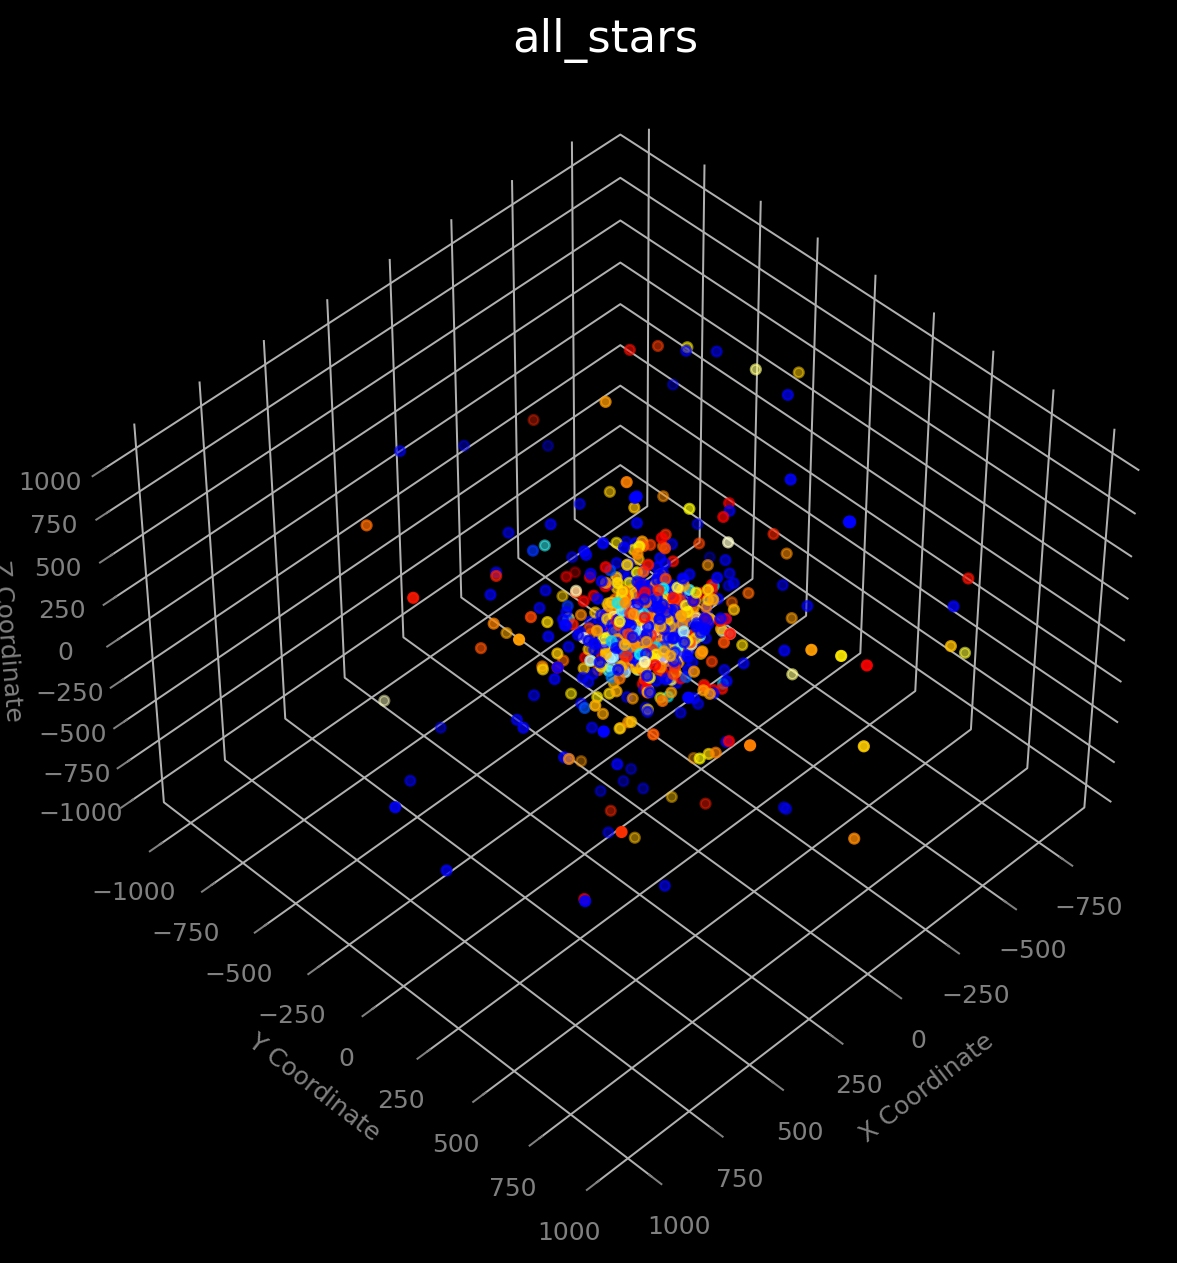
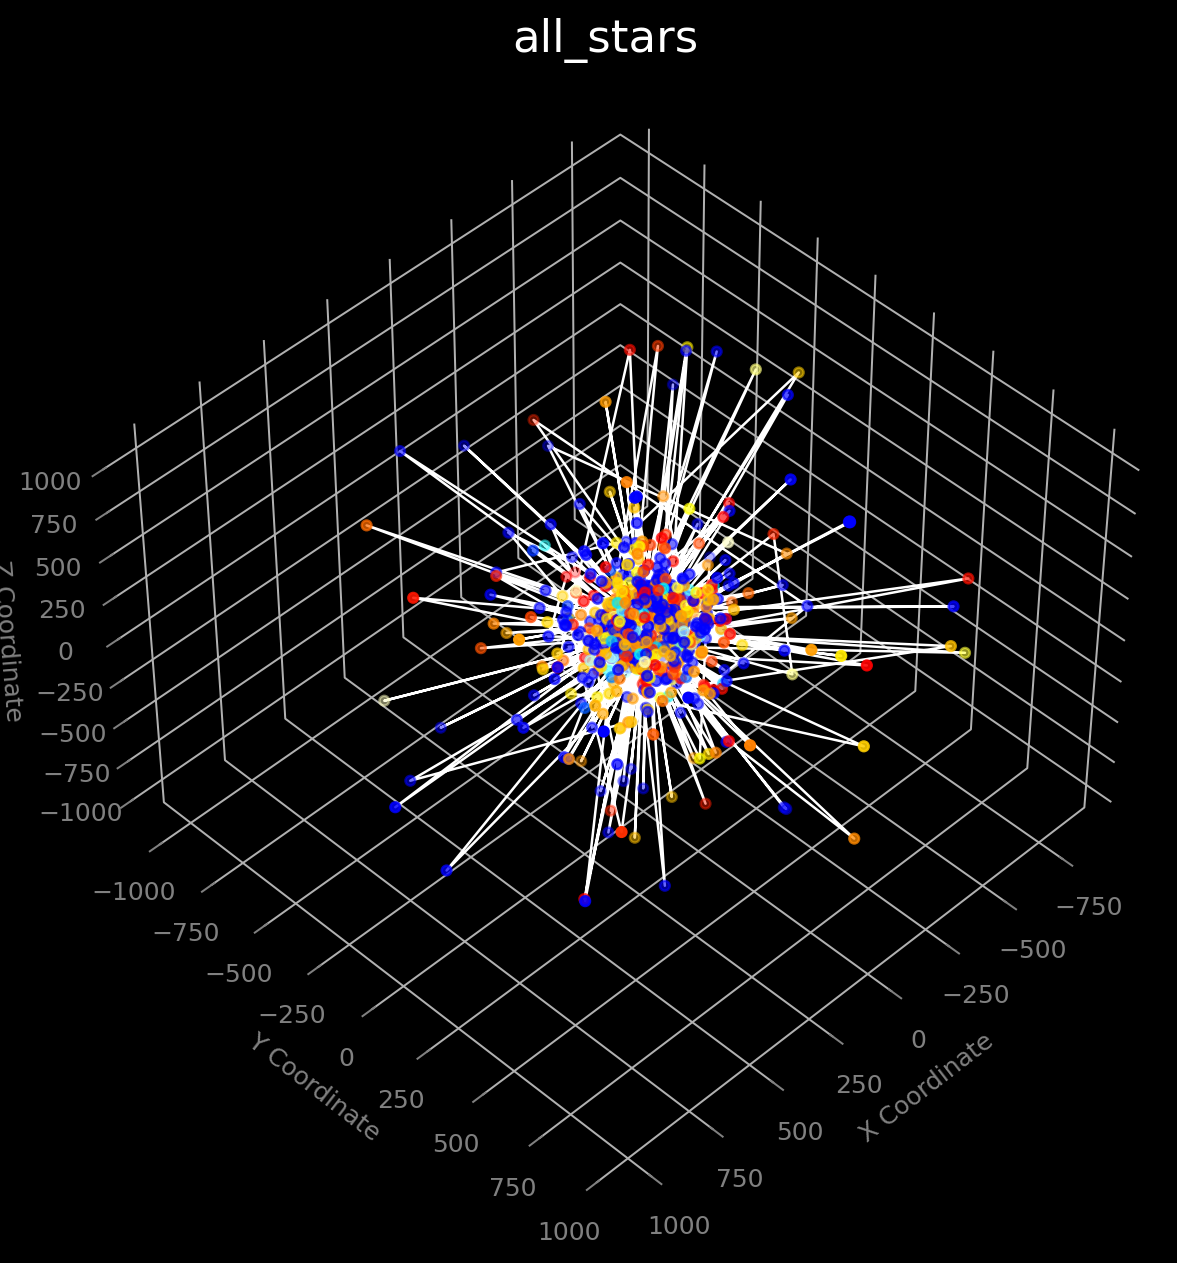
summer triangle

Changed region(s): [[0.367, 0.2779, 0.8258, 0.7102], [0.3976, 0.6485, 0.4282, 0.6793], [0.3364, 0.6176, 0.367, 0.6485]]

diff --git a/src/summer_triangle.py b/src/summer_triangle.py
@@ -1,0 +1,60 @@
+import os
+import pandas as pd
+
+from data_handler import load_data, check_and_convert_types
+from calculations import calculate_distance, calculate_x_coordinate, calculate_y_coordinate, calculate_z_coordinate, bv_color_to_rgb, degrees_to_radians
+from plotter import plot_3d_scatter
+
+def summer_triangle():
+    # current directory
+    current_dir = os.path.dirname('src') 
+
+    # directory of data relative to current directory
+    data_file_path = os.path.join(current_dir, '..', 'data', 'data_j2000.csv')
+
+    # load data from csv to pandas dataframe
+    df = load_data(data_file_path)
+
+    # check if types are correct and convert if otherwise
+    df = check_and_convert_types(df)
+
+    # Summer Triangle stars in Ursa Minor, alternative names and common names respectivly
+    summer_triangle_stars = ['53Alp Aql', '50Alp Cyg', '3Alp Lyr']
+    ordered_star_names = ['Altair', 'Deneb', 'Vega']
+
+    df = df[df['alt_name'].isin(summer_triangle_stars)]
+
+    # map alternative names to common names
+    name_mapping = dict(zip(summer_triangle_stars, ordered_star_names))
+    
+    df['common_name'] = df['alt_name'].map(name_mapping)
+
+    # create order to the stars, this allows for connecting the stars using a line plot in plotter.py
+    df['common_name'] = pd.Categorical(df['common_name'], categories=ordered_star_names, ordered=True)
+    df = df.sort_values(by='common_name')
+
+    # remove any NaN and zero values found in parallax column
+    df = df[(df['parallax'].notna() & df.parallax != 0)]
+
+    # turns degrees to radians (np.sin and np.cos already do this but this will update the df)
+    df['dec'] = df.apply(lambda row: degrees_to_radians(row['dec']), axis=1)
+    df['ra'] = df.apply(lambda row: degrees_to_radians(row['ra']), axis=1)
+
+    # Calculate x, y, z coordinates and RGB colors, and add them to the df
+    df['distance'] = df.apply(lambda row: calculate_distance(row['parallax']), axis=1)
+
+    # create x y z coordinates in the df using distance, declination and right acension
+    df['x_coordinate'] = df.apply(lambda row: calculate_x_coordinate((row['distance']), row['dec'], row['ra']), axis=1)
+    df['y_coordinate'] = df.apply(lambda row: calculate_y_coordinate((row['distance']), row['dec'], row['ra']), axis=1)
+    df['z_coordinate'] = df.apply(lambda row: calculate_z_coordinate((row['distance']), row['dec']), axis=1)
+
+    # creates a color variable to each star (approximatly) 
+    df['rgb_color'] = df['bv_color'].apply(bv_color_to_rgb)
+
+    title = 'summer_triangle'
+    view = (29, -135)
+
+    # plots the Summer Triangle asterism
+    fig, ax, view = plot_3d_scatter(df.x_coordinate.values, df.y_coordinate.values, df.z_coordinate.values, df.rgb_color.values, df.common_name.values, title=title, view=view)
+     
+    return title, fig, ax, view

diff --git a/src/plotter.py b/src/plotter.py
@@ -47,14 +47,20 @@ def plot_3d_scatter(x, y, z, rgb, star_names=None, title=None, view=None):
         for i in range(len(x)):
             ax.text(x[i], y[i], z[i], star_names[i], color='white', fontsize=9)
 
-    # connect stars in a 'closed loop'
-    star_coords = {'x': x, 'y': y, 'z': z}
 
-    # for big dipper
-    draw_line_between_stars(ax, star_names, star_coords, 'Phecda', 'Megrez')
+    if star_names is not None:
+    
+        # connect stars in a 'closed loop'
+        star_coords = {'x': x, 'y': y, 'z': z}
 
-    # for little dipper
-    draw_line_between_stars(ax, star_names, star_coords, 'Eta UMi', 'Zet UMi')
+        # for big dipper
+        draw_line_between_stars(ax, star_names, star_coords, 'Phecda', 'Megrez')
+
+        # for little dipper
+        draw_line_between_stars(ax, star_names, star_coords, 'Eta UMi', 'Zet UMi')
+
+        # for summer triangle
+        draw_line_between_stars(ax, star_names, star_coords, 'Altair', 'Vega')
 
     # draw lines connecting the stars in the Big Dipper
     ax.plot(x, y, z, color='white', linewidth=1)

diff --git a/src/main.py b/src/main.py
@@ -1,21 +1,25 @@
 from big_dipper import big_dipper
 from little_dipper import little_dipper
+from summer_triangle import summer_triangle
 from all_stars import all_stars
 from plotter import capture_gif
 
 
 # call functions to plot all stars in the data
 print('all_stars')
-title, fig, ax, view = all_stars()
+#title, fig, ax, view = all_stars()
 print('creating animation...')
 #capture_gif(title, fig, ax, view)
 
 # call functions to plot stars in the big dipper asterism
 print('big dipper')
-title, fig, ax, view = big_dipper()
+#title, fig, ax, view = big_dipper()
 print('capturing animation...')
 #capture_gif(title, fig, ax, view)
 
 # call function to plot stars in the little dipper asterism
-title, fig, ax, view = little_dipper()
+#title, fig, ax, view = little_dipper()
 #capture_gif(title, fig, ax, view)
+
+title, fig, ax, view = summer_triangle()
+capture_gif(title, fig, ax, view)
